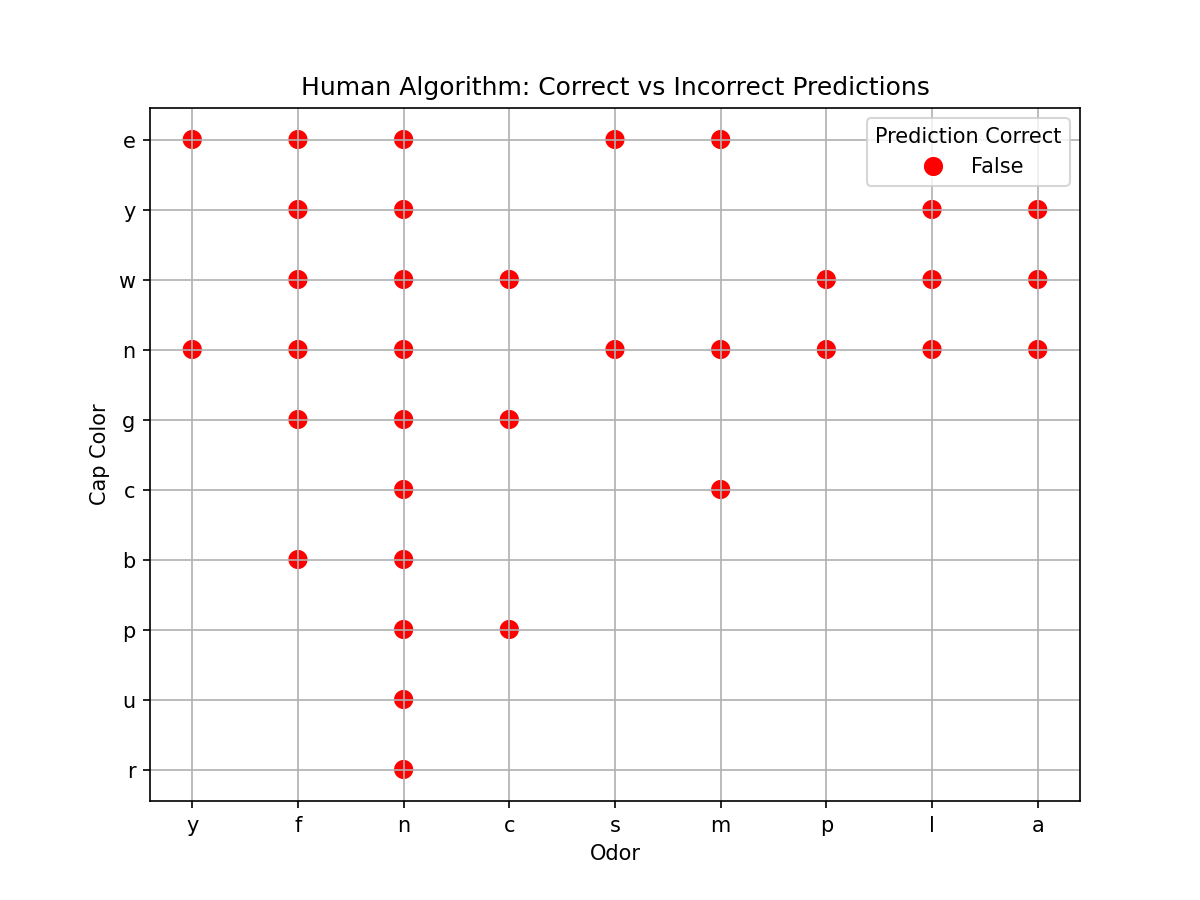
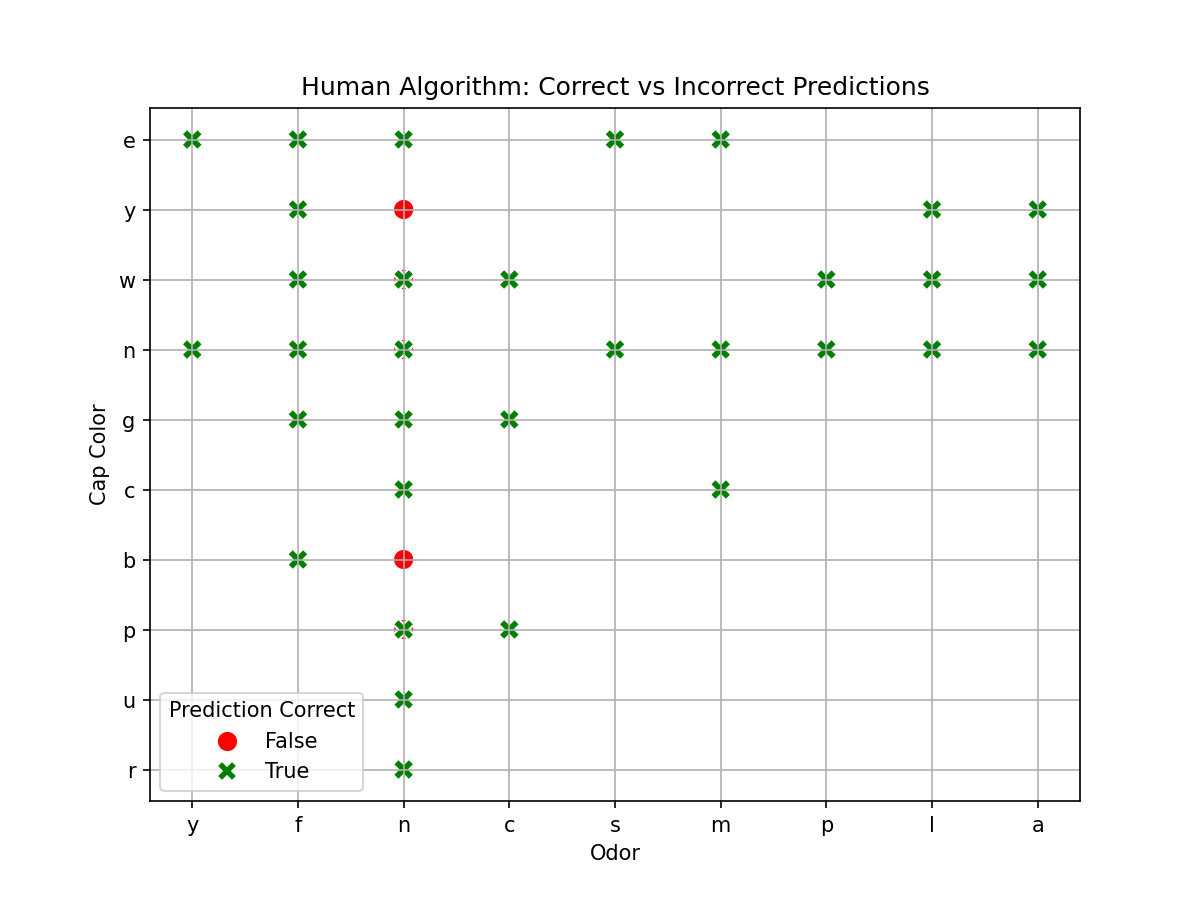
2.17.2026

diff --git a/ml_model/knn_model.py b/ml_model/knn_model.py
@@ -1,0 +1,99 @@
+import pandas as pd
+import seaborn as sns
+import matplotlib.pyplot as plt
+import os
+from sklearn.model_selection import train_test_split
+from sklearn.neighbors import KNeighborsClassifier
+from data.fetch_data import load_mushroom_data
+
+df, target_name = load_mushroom_data()
+
+# I selected only the cap-color and odor features for classification.
+X = df[['cap-color', 'odor']]
+y = df[target_name]
+
+X_train, X_test, y_train, y_test = train_test_split(
+    X,
+    y,
+    test_size=0.3,
+    random_state=42,
+    stratify=y
+)
+
+# I selected k=1 for the KNN classifier.
+k = 1
+knn = KNeighborsClassifier(n_neighbors=k)
+knn.fit(X_train, y_train)
+y_pred = knn.predict(X_test)
+y_train_pred = knn.predict(X_train)
+
+# create confusion matrix
+conf_matrix_knn = pd.crosstab(
+    y_test,
+    y_pred,
+    rownames=['Actual'],
+    colnames=['Predicted']
+)
+
+# compute accuracy on test data
+accuracy_knn = (y_pred == y_test).mean()
+
+# display results on test data
+print(f"KNN classifier accuracy (k={k}): {accuracy_knn:.2%}\n")
+print(conf_matrix_knn)
+
+# Add a 'correct' column for the visualization on test data
+test_df = X_test.copy()
+test_df[target_name] = y_test
+test_df['KNN_prediction'] = y_pred
+test_df['correct'] = test_df['KNN_prediction'] == test_df[target_name]
+
+# Add a 'correct' column for the visualization on training data
+train_df = X_train.copy()
+train_df[target_name] = y_train
+train_df['KNN_prediction'] = y_train_pred
+train_df['correct'] = train_df['KNN_prediction'] == train_df[target_name]
+
+# Create a visualization of KNN classifier results
+os.makedirs("ml_model/plots", exist_ok=True)
+
+# Create a visualization for training data
+# I left this commented out, but feel free to toggle this plot to see training results.
+plt.figure(figsize=(8, 6))
+sns.scatterplot(
+    data=train_df,
+    x='cap-color',
+    y='odor',
+    hue='correct',
+    style='correct',
+    s=100,
+    palette={True: 'green', False: 'red'}
+)
+
+plt.title('KNN Algorithm (Training Set): Correct vs Incorrect Predictions')
+plt.xlabel('Cap Color')
+plt.ylabel('Odor')
+plt.legend(title='Prediction Correct')
+plt.grid(True)
+plt.savefig('ml_model/plots/knn_model_training_results.png', dpi=150)
+plt.close()
+
+# Create a visualization for test data
+plt.figure(figsize=(8, 6))
+sns.scatterplot(
+    data=test_df,
+    x='cap-color',
+    y='odor',
+    hue='correct',
+    style='correct',
+    s=100,
+    palette={True: 'green', False: 'red'}
+)
+
+plt.title('KNN Algorithm: Correct vs Incorrect Predictions')
+plt.xlabel('Cap Color')
+plt.ylabel('Odor')
+plt.legend(title='Prediction Correct')
+plt.grid(True)
+plt.savefig('ml_model/plots/knn_model_test_results.png', dpi=150)
+plt.close()

diff --git a/data/fetch_data.py b/data/fetch_data.py
@@ -17,10 +17,10 @@ def load_mushroom_data():
     y = mushroom.data.targets 
 
     # metadata 
-    print(mushroom.metadata) 
+    # print(mushroom.metadata) 
 
-    # variable information 
-    print(mushroom.variables) 
+    # # variable information 
+    # print(mushroom.variables) 
 
     # ---------------------------------------------------------------------
 
@@ -31,7 +31,6 @@ def load_mushroom_data():
     df[target_name] = mushroom.data.targets
 
     # I printed here to confirm that I was importing data correctly.
-    # print(df.head())
+    # print(df.head(20))
 
     return df, target_name
-# load_mushroom_data()

diff --git a/human_algorithm/human_classifier.py b/human_algorithm/human_classifier.py
@@ -1,11 +1,11 @@
 def human_classify(odor): 
     if odor == 'a':  
-        return 'edible' 
+        return 'e' 
     elif odor == 'l': 
-        return 'edible' 
+        return 'e' 
     elif odor == 'n': 
-        return 'edible' 
+        return 'e' 
     else: 
-        return 'poisonous'
+        return 'p'
 
-print(human_classify('a'))  # Should return 'edible'
+# print(human_classify('a'))  # Should return 'edible'
